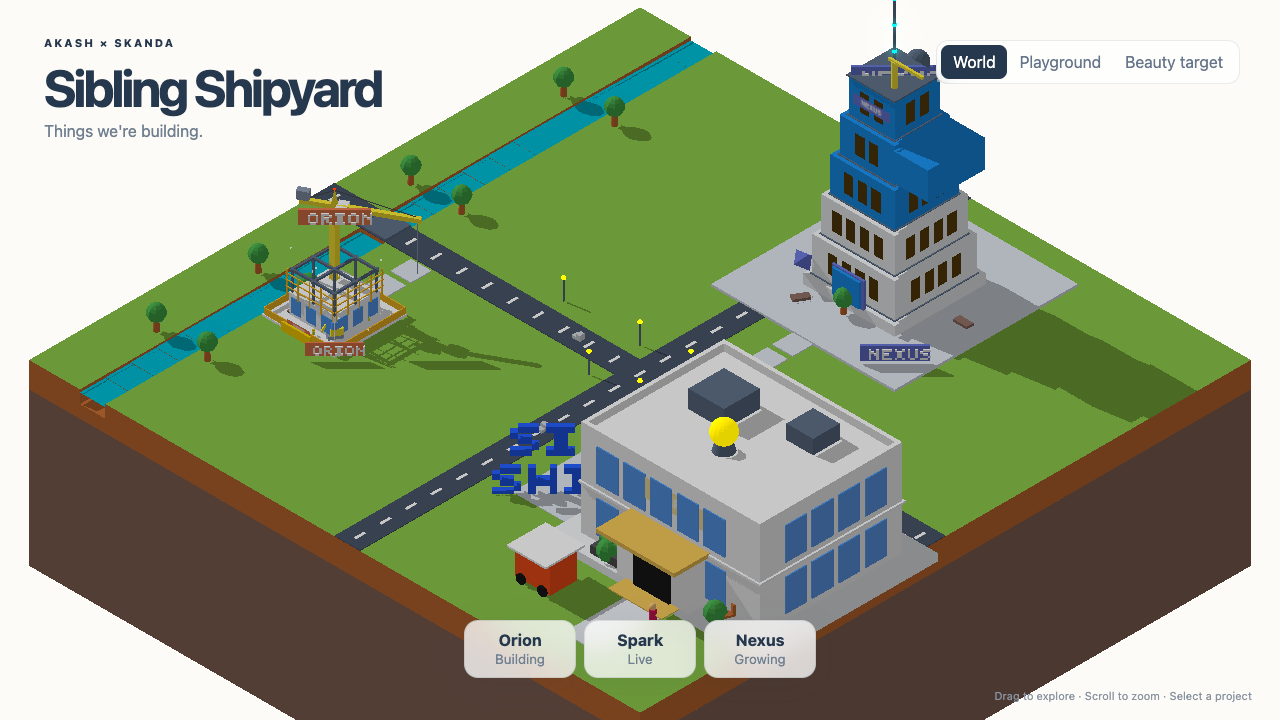
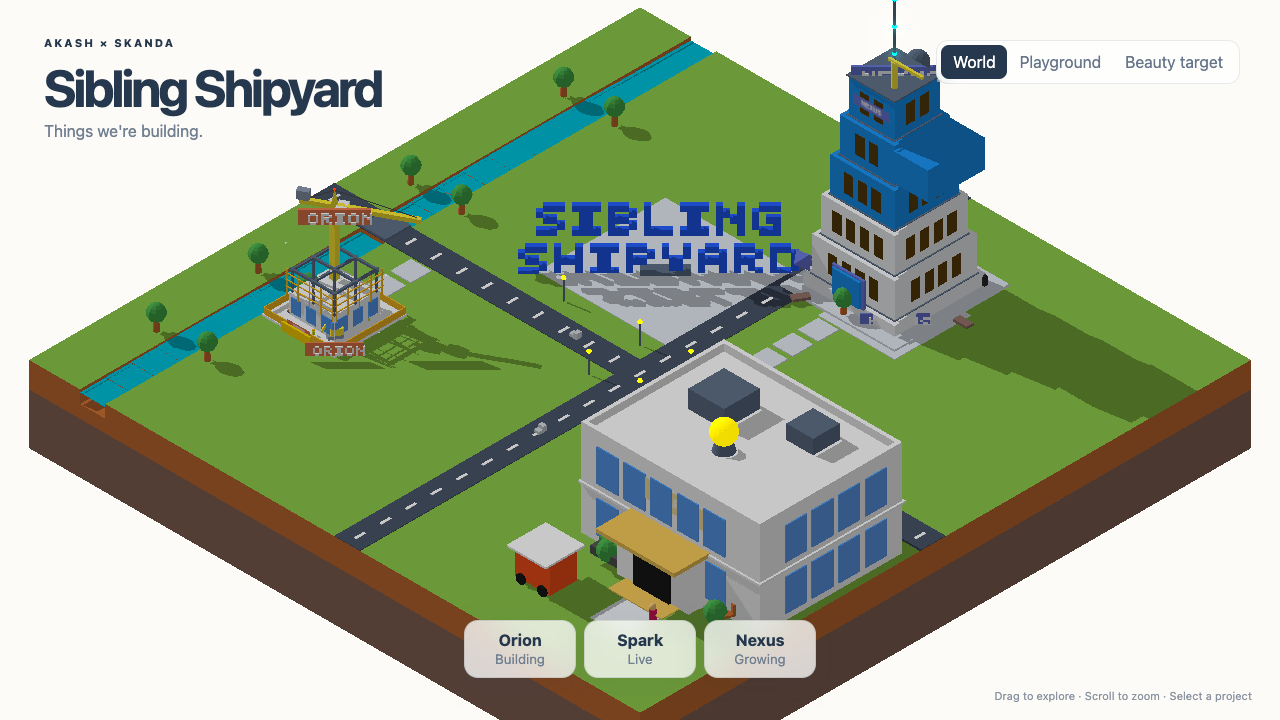
Fix final visual nits: crust depth, camera zoom, monument placement, and plaza sizes

diff --git a/app/src/world/three/buildings/BuildingFactory.ts b/app/src/world/three/buildings/BuildingFactory.ts
@@ -50,6 +50,7 @@ export class BuildingFactory {
       // Add Ground Sign (Iteration 13)
       const groundSign = roofSign.clone();
       groundSign.scale.set(0.08, 0.08, 0.08); // slightly smaller for ground
+      groundSign.position.set(1.5, 0.2, 2.5);
       
       // Archetype specific sign placement
       if (project.building.archetype === 'workshop') {
@@ -57,10 +58,10 @@ export class BuildingFactory {
         groundSign.position.set(2, 0.5, 2);
       } else if (project.building.archetype === 'studio') {
         roofSign.position.set(0, 5, 0);
-        groundSign.position.set(5, 0.5, 5);
+        groundSign.position.set(2, 0.2, 3.5);
       } else if (project.building.archetype === 'tower') {
         roofSign.position.set(0, 8, 0);
-        groundSign.position.set(3, 0.5, 3);
+        groundSign.position.set(1.5, 0.2, 1.5);
       }
       
       result.group.add(roofSign);

diff --git a/app/src/world/three/DecorBuilder.ts b/app/src/world/three/DecorBuilder.ts
@@ -139,9 +139,9 @@ export class DecorBuilder {
       }
     });
 
-    // Position monument in the center of the 5x5 plaza (16, 16)
-    const plazaCenterX = 16 * CELL_SIZE;
-    const plazaCenterZ = 16 * CELL_SIZE;
+    // Position monument in the center of the 5x5 plaza (9, 8)
+    const plazaCenterX = 9 * CELL_SIZE;
+    const plazaCenterZ = 8 * CELL_SIZE;
     monumentGroup.position.set(plazaCenterX, 0, plazaCenterZ);
     // Rotate to face the camera (isometric camera looks from bottom right)
     monumentGroup.rotation.y = Math.PI / 4;

diff --git a/app/src/world/three/buildings/StudioBuilder.ts b/app/src/world/three/buildings/StudioBuilder.ts
@@ -33,7 +33,7 @@ export function buildStudio(config: {
   const beaconMat = new THREE.MeshLambertMaterial({ color: p.activeLight, emissive: p.activeLight, emissiveIntensity: 1, flatShading: true });
 
   // 1. Building base
-  const baseW = 12, baseH = 0.4, baseD = 10;
+  const baseW = 9, baseH = 0.4, baseD = 7;
   const baseMesh = new THREE.Mesh(new THREE.BoxGeometry(baseW, baseH, baseD), concreteMat);
   baseMesh.position.set(0, baseH / 2, 0);
   baseMesh.castShadow = true;

diff --git a/app/src/world/layout/townLayout.ts b/app/src/world/layout/townLayout.ts
@@ -50,7 +50,7 @@ export const shipyardZeroLayout: TownLayout = {
   ],
   plazas: [
     // Central Monument Plaza
-    ...Array.from({ length: 5 }, (_, x) => Array.from({ length: 5 }, (_, y) => point(14 + x, 14 + y))).flat(),
+    ...Array.from({ length: 5 }, (_, x) => Array.from({ length: 5 }, (_, y) => point(7 + x, 6 + y))).flat(),
     // Nexus Plaza
     point(14, 4), point(15, 4), point(16, 4),
     point(14, 6), point(15, 6), point(16, 6),

diff --git a/app/src/world/three/TerrainBuilder.ts b/app/src/world/three/TerrainBuilder.ts
@@ -103,7 +103,7 @@ export class TerrainBuilder {
     });
 
     // --- DIORAMA CRUST FOUNDATION ---
-    const crustDepth = 12;
+    const crustDepth = 4;
     const crustGeo = new THREE.BoxGeometry(width, crustDepth, depth);
     const crustMat = new THREE.MeshLambertMaterial({ color: p.rock, flatShading: true });
     const crustMesh = new THREE.Mesh(crustGeo, crustMat);

diff --git a/app/src/world/three/buildings/TowerBuilder.ts b/app/src/world/three/buildings/TowerBuilder.ts
@@ -30,7 +30,7 @@ export function buildTower(config: {
   const craneMat = new THREE.MeshLambertMaterial({ color: p.crane, flatShading: true });
   
   // 7. Base Plaza
-  const plazaSize = 8;
+  const plazaSize = 5;
   const plazaGeo = new THREE.BoxGeometry(plazaSize, 0.1, plazaSize);
   const plaza = new THREE.Mesh(plazaGeo, plazaMat);
   plaza.position.y = 0.05;

diff --git a/app/src/world/three/SceneManager.ts b/app/src/world/three/SceneManager.ts
@@ -100,7 +100,7 @@ export class SceneManager {
 
   resize(): void {
     const aspect = this.container.clientWidth / this.container.clientHeight;
-    const frustumSize = 12;
+    const frustumSize = 15;
     this.camera.left = -frustumSize * aspect;
     this.camera.right = frustumSize * aspect;
     this.camera.top = frustumSize;
